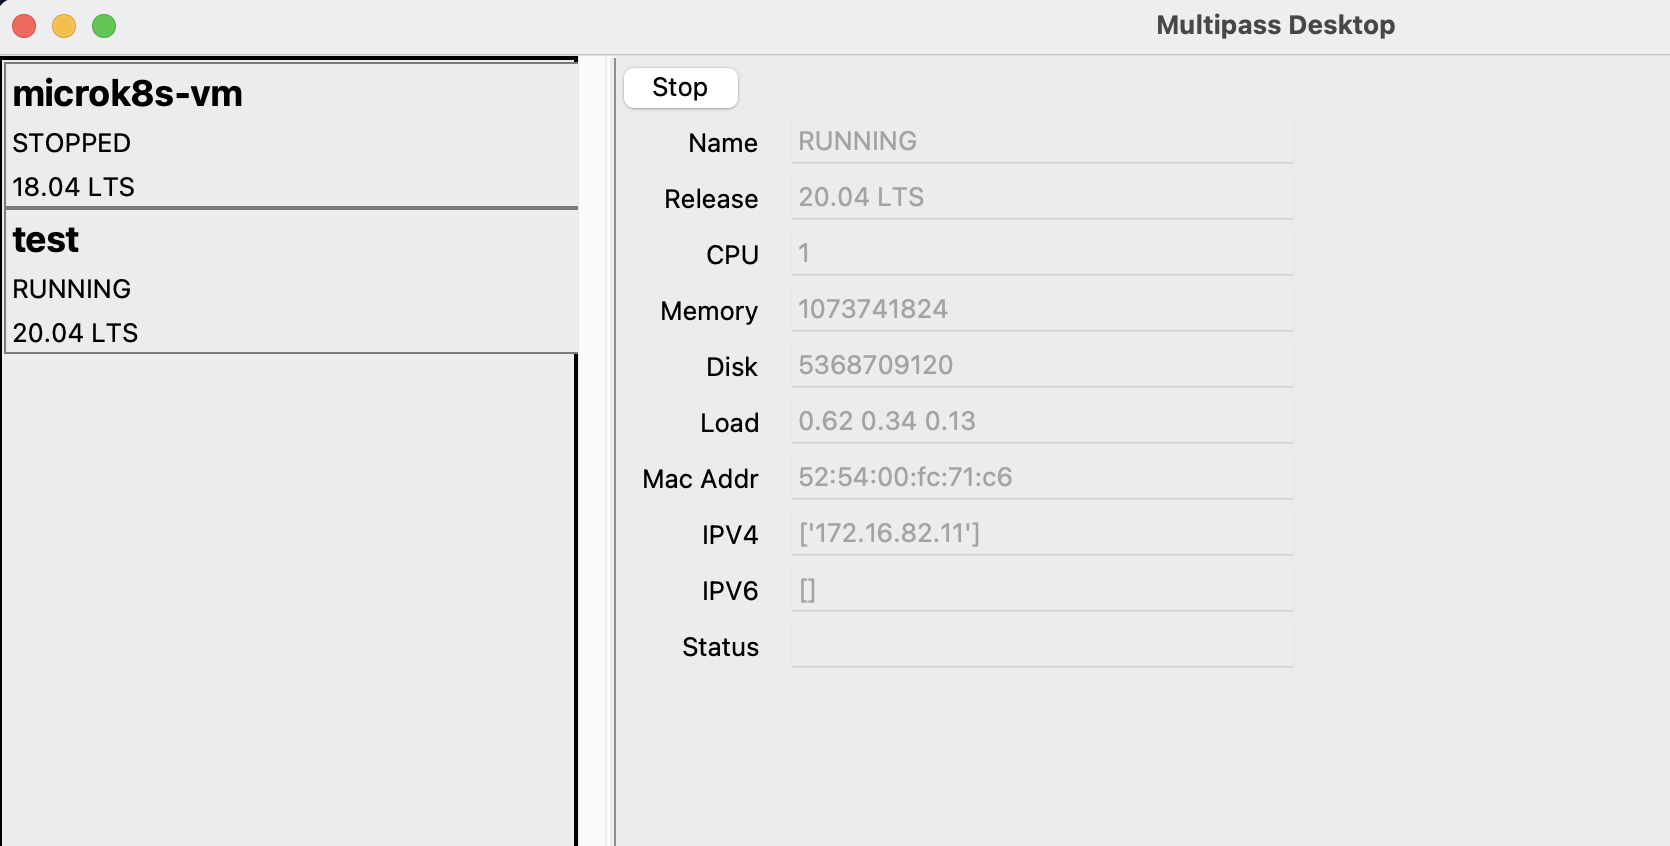
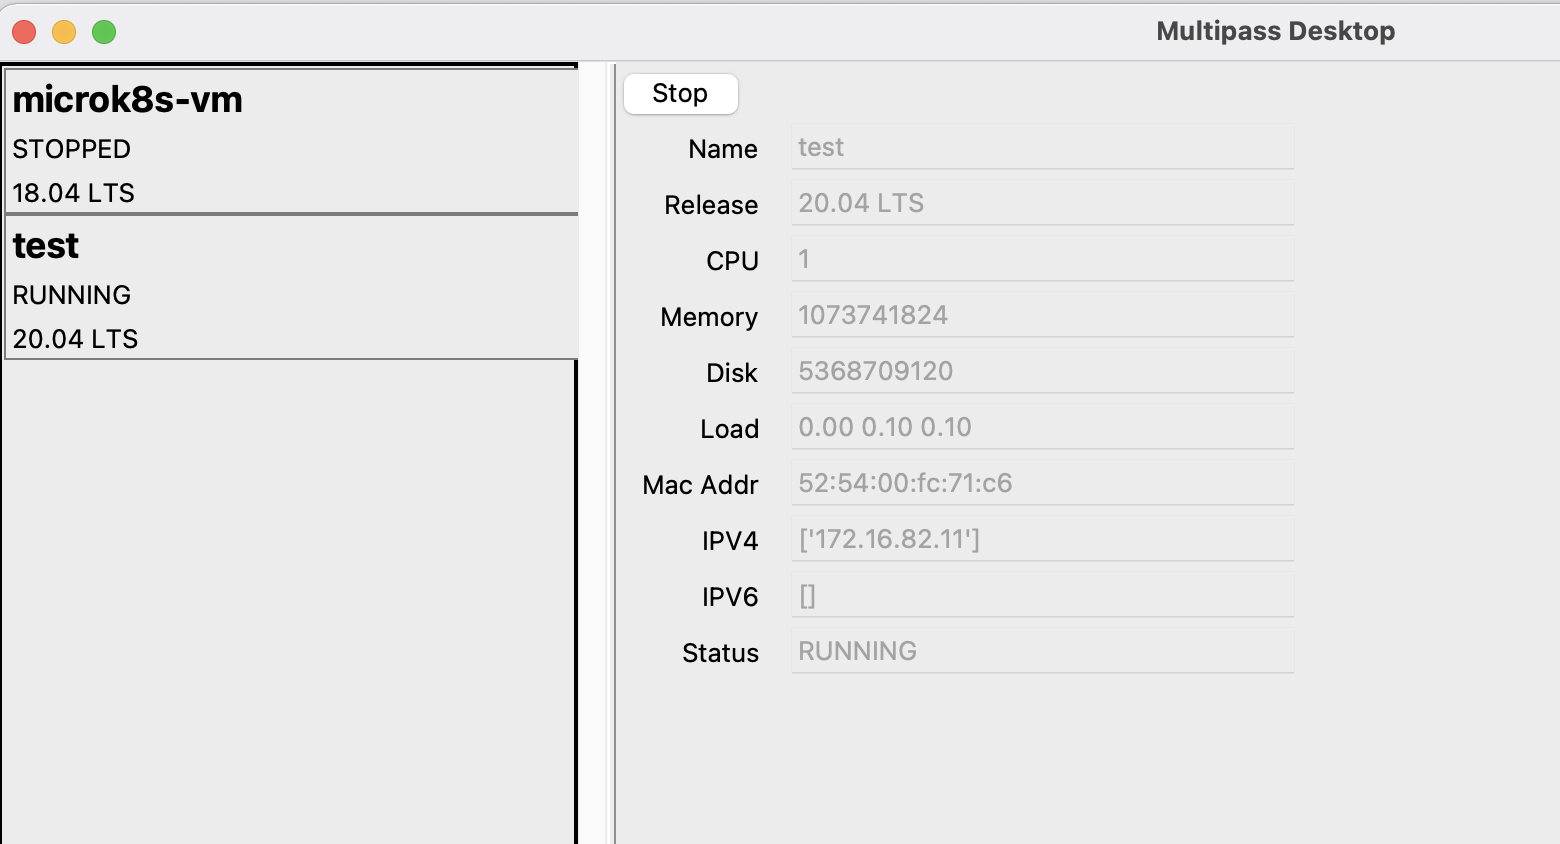
fix instance info name typo

diff --git a/src/multipass_desktop/_widgets.py b/src/multipass_desktop/_widgets.py
@@ -247,7 +247,7 @@ class VMInstanceInfo(tk.Frame):
             status_lbl.grid(row=row, column=0, ipadx="10", sticky=tk.E)
 
             self.status_var = tk.StringVar()
-            self.name_var.set(instance_info['status'])
+            self.status_var.set(instance_info['status'])
 
             status_field = tk.Entry(frame, textvariable=self.status_var, width=5)
             status_field.grid(row=row, column=1, ipadx="100", sticky=tk.W)
